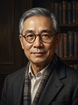
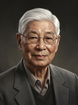
feat(EBS): generate clean Banana img2img portraits from real reference photos for all 9 leaders

diff --git a/tools/process_ebs_portraits.py b/tools/process_ebs_portraits.py
@@ -8,50 +8,47 @@ os.makedirs(OUT_DIR, exist_ok=True)
 MAPPINGS = [
     {
         "char_id": "EBS_leader_chen_zhuanyuan",
-        # Newly generated via Banana img2img from real photo (no borders, no text)
         "file": "hoi4_portrait_chen_baosheng_clean_1793525564997.jpg",
         "base_name": "portrait_EBS_leader_chen_zhuanyuan"
     },
     {
         "char_id": "EBS_huai_zonggong",
-        # Newly generated via Banana img2img from real photo (no borders, no text)
         "file": "hoi4_portrait_huai_jinpeng_clean_1793525601514.jpg",
         "base_name": "portrait_EBS_huai_zonggong"
     },
     {
         "char_id": "EBS_zhou_zongdao",
-        # Newly generated via Banana img2img from real photo (no borders, no text)
         "file": "hoi4_portrait_zhou_ji_clean_1793525612025.jpg",
         "base_name": "portrait_EBS_zhou_zongdao"
     },
     {
         "char_id": "EBS_wang_sichang",
-        "file": "hoi4_portrait_wang_dengfeng_1793517304480.jpg",
+        "file": "hoi4_portrait_wang_dengfeng_clean_1793537067378.jpg",
         "base_name": "portrait_EBS_wang_sichang"
     },
     {
         "char_id": "EBS_wang_zongguan",
-        "file": "hoi4_leader_wang_shengzhan_clean_1793517324679.jpg",
+        "file": "hoi4_portrait_wang_shengzhan_clean_1793537078363.jpg",
         "base_name": "portrait_EBS_wang_zongguan"
     },
     {
         "char_id": "EBS_xi_teshi",
-        "file": "xi_huisuo_portrait_1793517304502.jpg",
+        "file": "hoi4_portrait_xi_huisuo_clean_1793537091683.jpg",
         "base_name": "portrait_EBS_xi_teshi"
     },
     {
         "char_id": "EBS_dongbei_council",
-        "file": "hoi4_dongbei_schools_leader_1793517312932.jpg",
+        "file": "hoi4_portrait_zhang_xueliang_clean_1793537097800.jpg",
         "base_name": "portrait_EBS_dongbei_council"
     },
     {
         "char_id": "EBS_enlightened_teachers",
-        "file": "hoi4_northern_teachers_union_leader_1793517312562.jpg",
+        "file": "hoi4_portrait_gu_mingyuan_clean_1793537112546.jpg",
         "base_name": "portrait_EBS_enlightened_teachers"
     },
     {
         "char_id": "EBS_haidian_council",
-        "file": "hoi4_haidian_aristocrat_leader_1793517314986.jpg",
+        "file": "hoi4_portrait_liu_pengzhi_clean_1793537100430.jpg",
         "base_name": "portrait_EBS_haidian_council"
     }
 ]
@@ -62,35 +59,38 @@ def crop_and_resize(img, target_w, target_h):
     current_aspect = w / h
     
     if current_aspect > target_aspect:
+        # Image is wider than target aspect: crop width
         new_w = int(h * target_aspect)
         offset_x = (w - new_w) // 2
         cropped = img.crop((offset_x, 0, offset_x + new_w, h))
     else:
+        # Image is taller than target aspect: crop height
         new_h = int(w / target_aspect)
         offset_y = (h - new_h) // 2
         cropped = img.crop((0, offset_y, w, offset_y + new_h))
         
     return cropped.resize((target_w, target_h), Image.Resampling.LANCZOS)
 
-gfx_entries = []
+def main():
+    gfx_entries = []
 
-for item in MAPPINGS:
-    src_path = os.path.join(BRAIN_DIR, item["file"])
-    img = Image.open(src_path).convert("RGBA")
-    
-    # 156x210 leader large
-    large_img = crop_and_resize(img, 156, 210)
-    large_path = os.path.join(OUT_DIR, f"{item['base_name']}_156x210.png")
-    large_img.save(large_path, format="PNG")
-    
-    # 78x105 advisor small
-    small_img = crop_and_resize(img, 78, 105)
-    small_path = os.path.join(OUT_DIR, f"{item['base_name']}_small_78x105.png")
-    small_img.save(small_path, format="PNG")
-    
-    print(f"[OK] Processed: {item['base_name']} (large & small)")
-    
-    gfx_entries.append(f"""\tspriteType = {{
+    for item in MAPPINGS:
+        src_path = os.path.join(BRAIN_DIR, item["file"])
+        img = Image.open(src_path).convert("RGBA")
+        
+        # 156x210 leader large
+        large_img = crop_and_resize(img, 156, 210)
+        large_path = os.path.join(OUT_DIR, f"{item['base_name']}_156x210.png")
+        large_img.save(large_path, format="PNG")
+        
+        # 78x105 advisor small
+        small_img = crop_and_resize(img, 78, 105)
+        small_path = os.path.join(OUT_DIR, f"{item['base_name']}_small_78x105.png")
+        small_img.save(small_path, format="PNG")
+        
+        print(f"[OK] Processed: {item['base_name']} (large: 156x210, small: 78x105)")
+        
+        gfx_entries.append(f"""\tspriteType = {{
 \t\tname = "GFX_{item['base_name']}"
 \t\ttexturefile = "gfx/leaders/EBS/{item['base_name']}_156x210.png"
 \t}}
@@ -99,8 +99,11 @@ for item in MAPPINGS:
 \t\ttexturefile = "gfx/leaders/EBS/{item['base_name']}_small_78x105.png"
 \t}}""")
 
-# Write interface/EBS_characters.gfx
-gfx_content = "spriteTypes = {\n" + "\n".join(gfx_entries) + "\n}\n"
-with open("interface/EBS_characters.gfx", "w", encoding="utf-8") as f:
-    f.write(gfx_content)
-print("[OK] Written interface/EBS_characters.gfx successfully!")
+    # Write interface/EBS_characters.gfx
+    gfx_content = "spriteTypes = {\n" + "\n".join(gfx_entries) + "\n}\n"
+    with open("interface/EBS_characters.gfx", "w", encoding="utf-8") as f:
+        f.write(gfx_content)
+    print("[OK] Written interface/EBS_characters.gfx successfully with all 9 leaders!")
+
+if __name__ == '__main__':
+    main()
